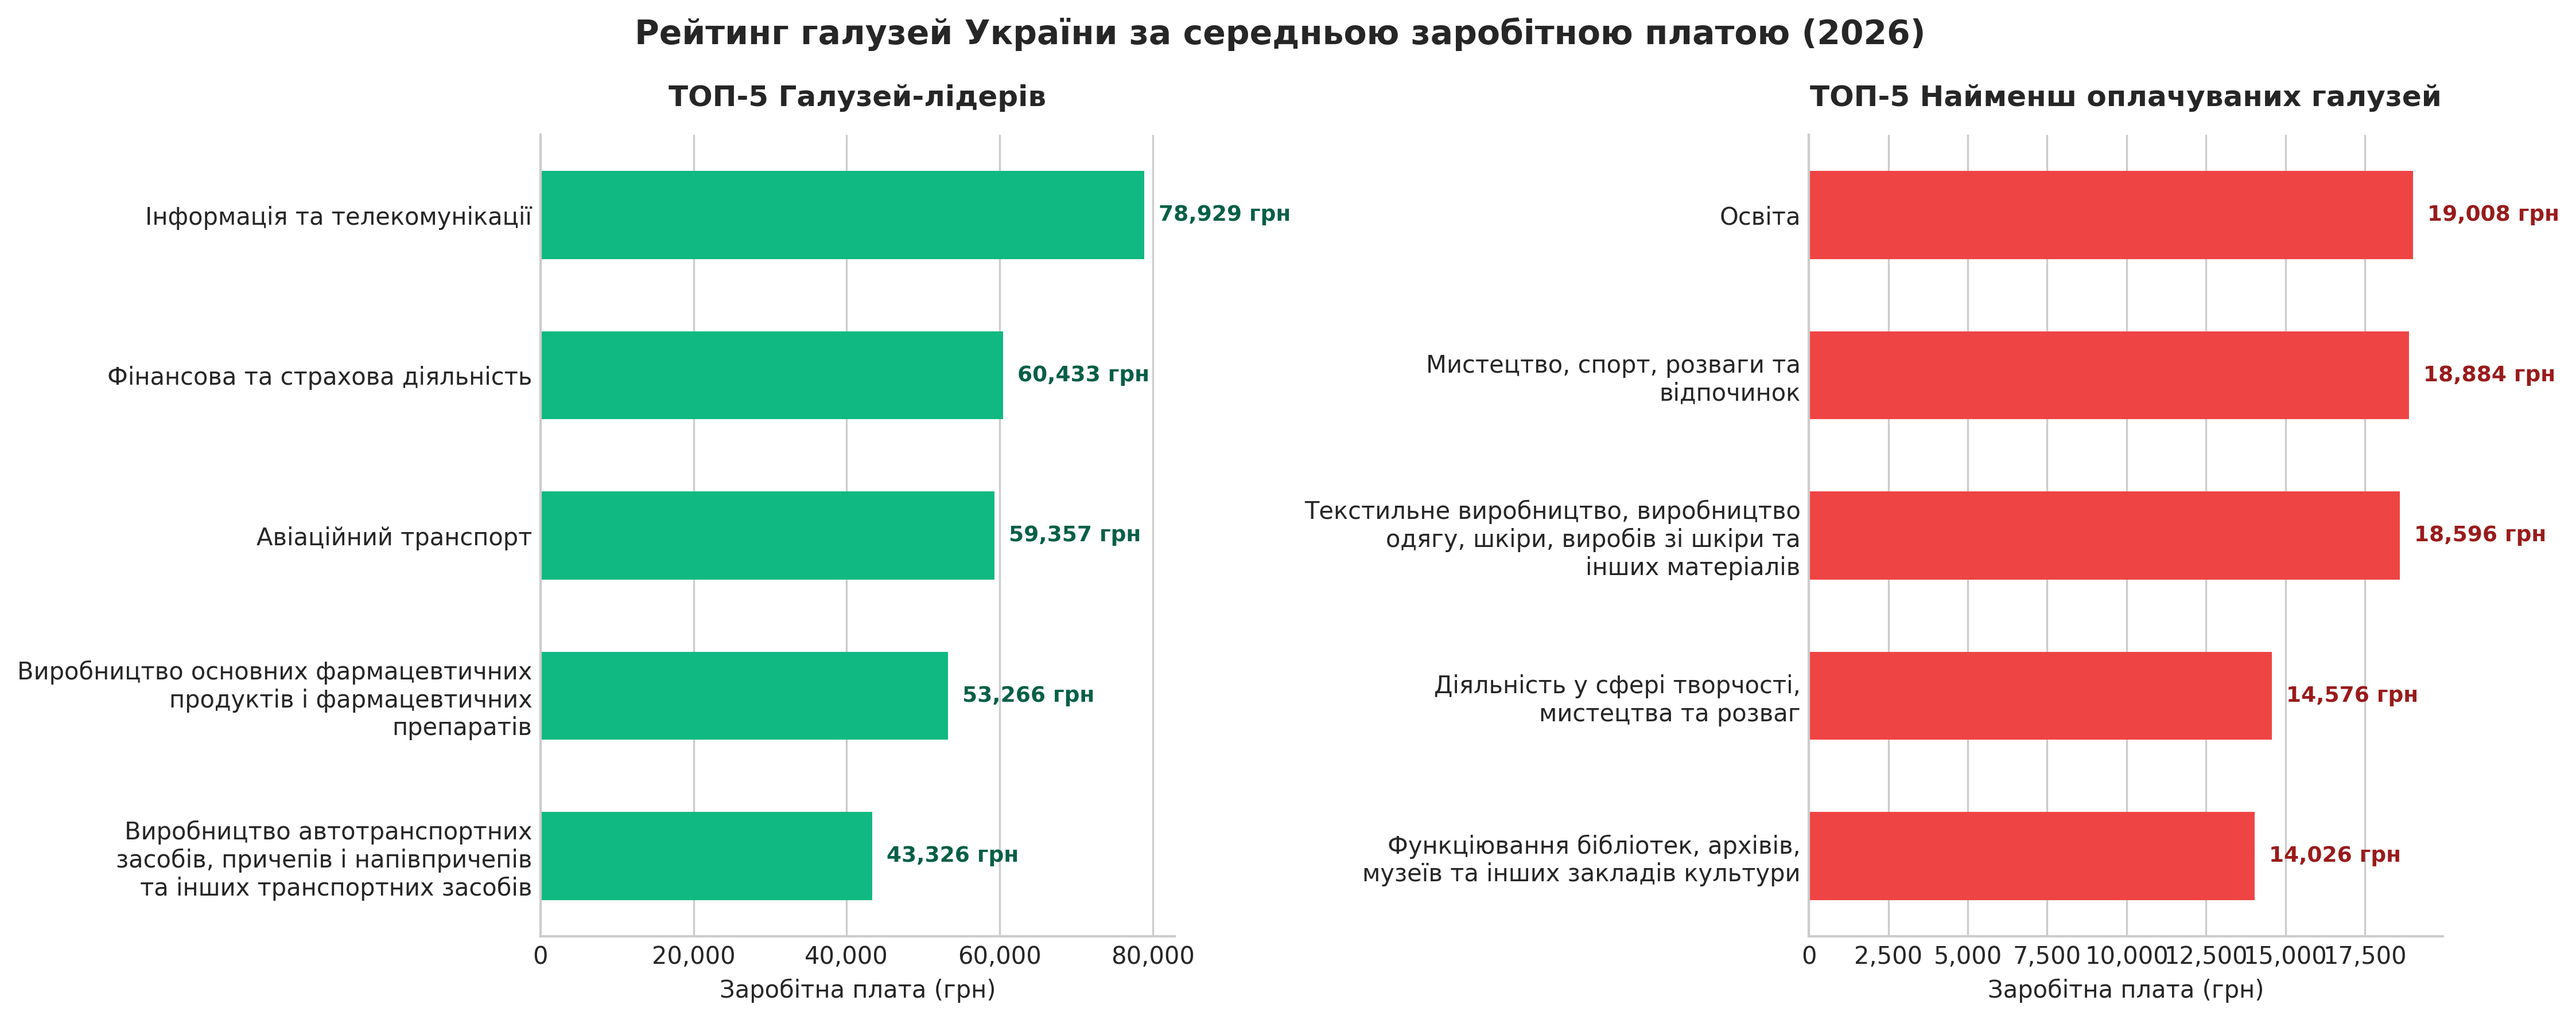
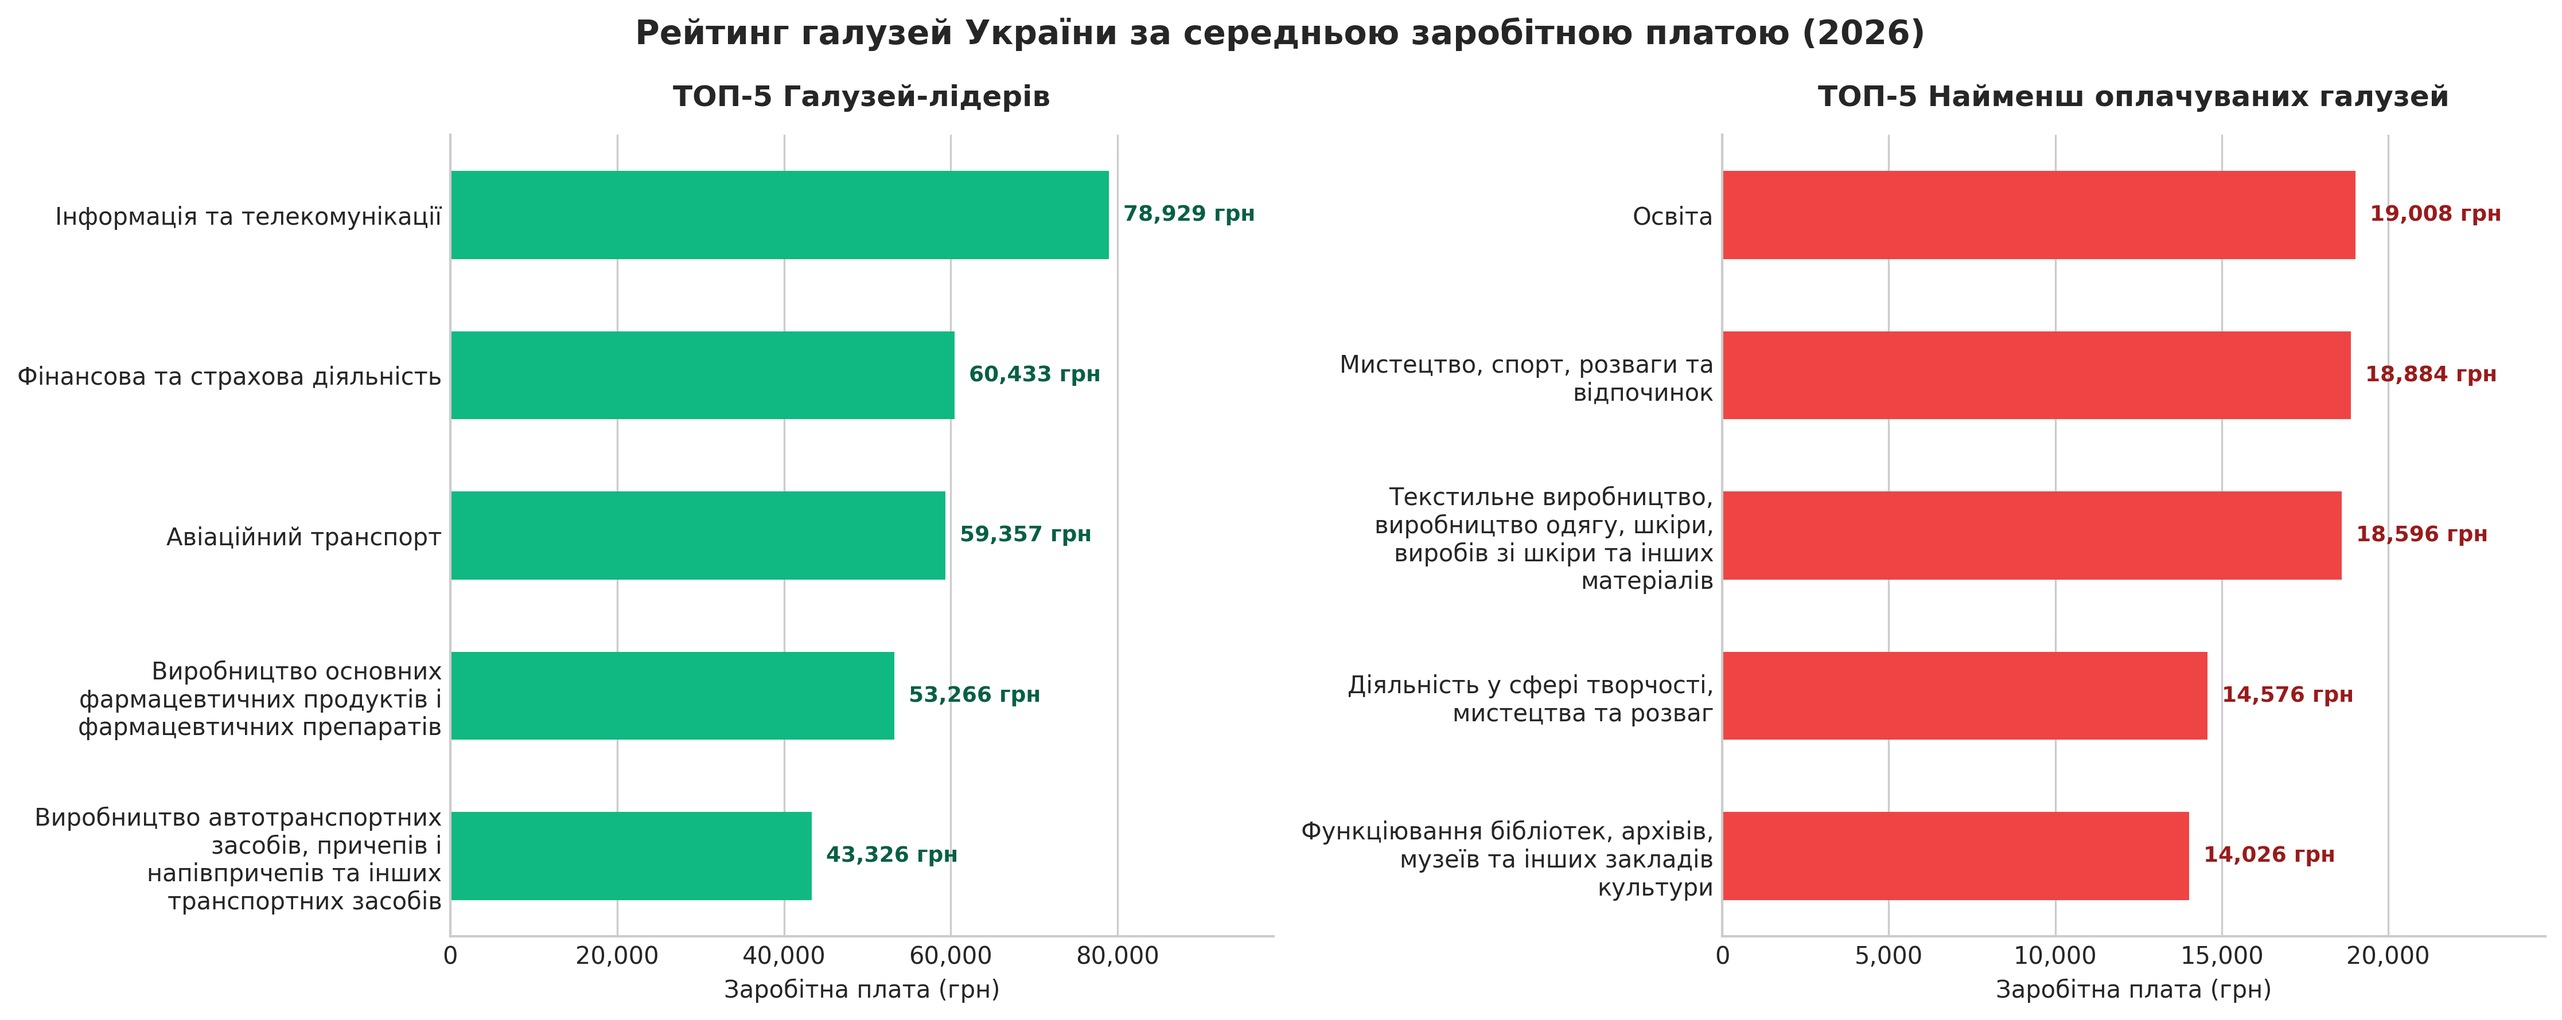
Fix overlapping ticks on industry chart

diff --git a/analyze_data.py b/analyze_data.py
@@ -5,7 +5,7 @@ import matplotlib.pyplot as plt
 import matplotlib.ticker as ticker
 import seaborn as sns
 
-# Налаштування шляхів
+# Налаштування шляхів до файлів та папок
 PROCESSED_FILE_PATH = os.path.join("data_processed", "wages_cleaned.csv")
 REPORTS_DIR = "reports"
 os.makedirs(REPORTS_DIR, exist_ok=True)
@@ -22,8 +22,8 @@ def load_data():
     return df
 
 
-def wrap_labels(labels, max_chars=35):
-    """Переносить довгі назви галузей на кілька рядків для компактності."""
+def wrap_labels(labels, max_chars=32):
+    """Переносить довгі назви галузей на кілька рядків."""
     return ['\n'.join(textwrap.wrap(label, max_chars)) for label in labels]
 
 
@@ -58,17 +58,19 @@ def analyze_industries(df):
     gap_ratio = top_5.iloc[0]['salary_uah'] / bottom_5.iloc[0]['salary_uah']
     print(f"\nРозрив між абсолютним лідером і аутсайдером: у {gap_ratio:.2f} раза")
 
-    # Побудова двох паралельних графіків
+    # Створюємо фігуру з двома графіками поруч
     fig, (ax1, ax2) = plt.subplots(1, 2, figsize=(15, 6), sharex=False)
     fig.suptitle(f"Рейтинг галузей України за середньою заробітною платою ({latest_year})", 
                  fontsize=14, fontweight='bold', y=0.98)
 
-    # 1. Лідери
+    # 1. ТОП-5 Лідерів
     bars1 = ax1.barh(wrap_labels(top_5['industry']), top_5['salary_uah'], color='#10b981', height=0.55)
     ax1.set_title("ТОП-5 Галузей-лідерів", fontsize=12, fontweight='bold', pad=12)
     ax1.invert_yaxis()
     ax1.set_xlabel("Заробітна плата (грн)", fontsize=10)
+    ax1.xaxis.set_major_locator(ticker.MultipleLocator(20000))
     ax1.xaxis.set_major_formatter(ticker.StrMethodFormatter('{x:,.0f}'))
+    ax1.set_xlim(0, top_5['salary_uah'].max() * 1.25)
     ax1.grid(axis='y', linestyle='')
     ax1.spines[['top', 'right']].set_visible(False)
 
@@ -79,11 +81,13 @@ def analyze_industries(df):
                      xytext=(6, 0), textcoords="offset points",
                      va='center', fontsize=9, fontweight='bold', color='#065f46')
 
-    # 2. Аутсайдери
+    # 2. ТОП-5 Аутсайдерів
     bars2 = ax2.barh(wrap_labels(bottom_5['industry']), bottom_5['salary_uah'], color='#ef4444', height=0.55)
     ax2.set_title("ТОП-5 Найменш оплачуваних галузей", fontsize=12, fontweight='bold', pad=12)
     ax2.set_xlabel("Заробітна плата (грн)", fontsize=10)
+    ax2.xaxis.set_major_locator(ticker.MultipleLocator(5000))
     ax2.xaxis.set_major_formatter(ticker.StrMethodFormatter('{x:,.0f}'))
+    ax2.set_xlim(0, bottom_5['salary_uah'].max() * 1.3)
     ax2.grid(axis='y', linestyle='')
     ax2.spines[['top', 'right']].set_visible(False)
 
